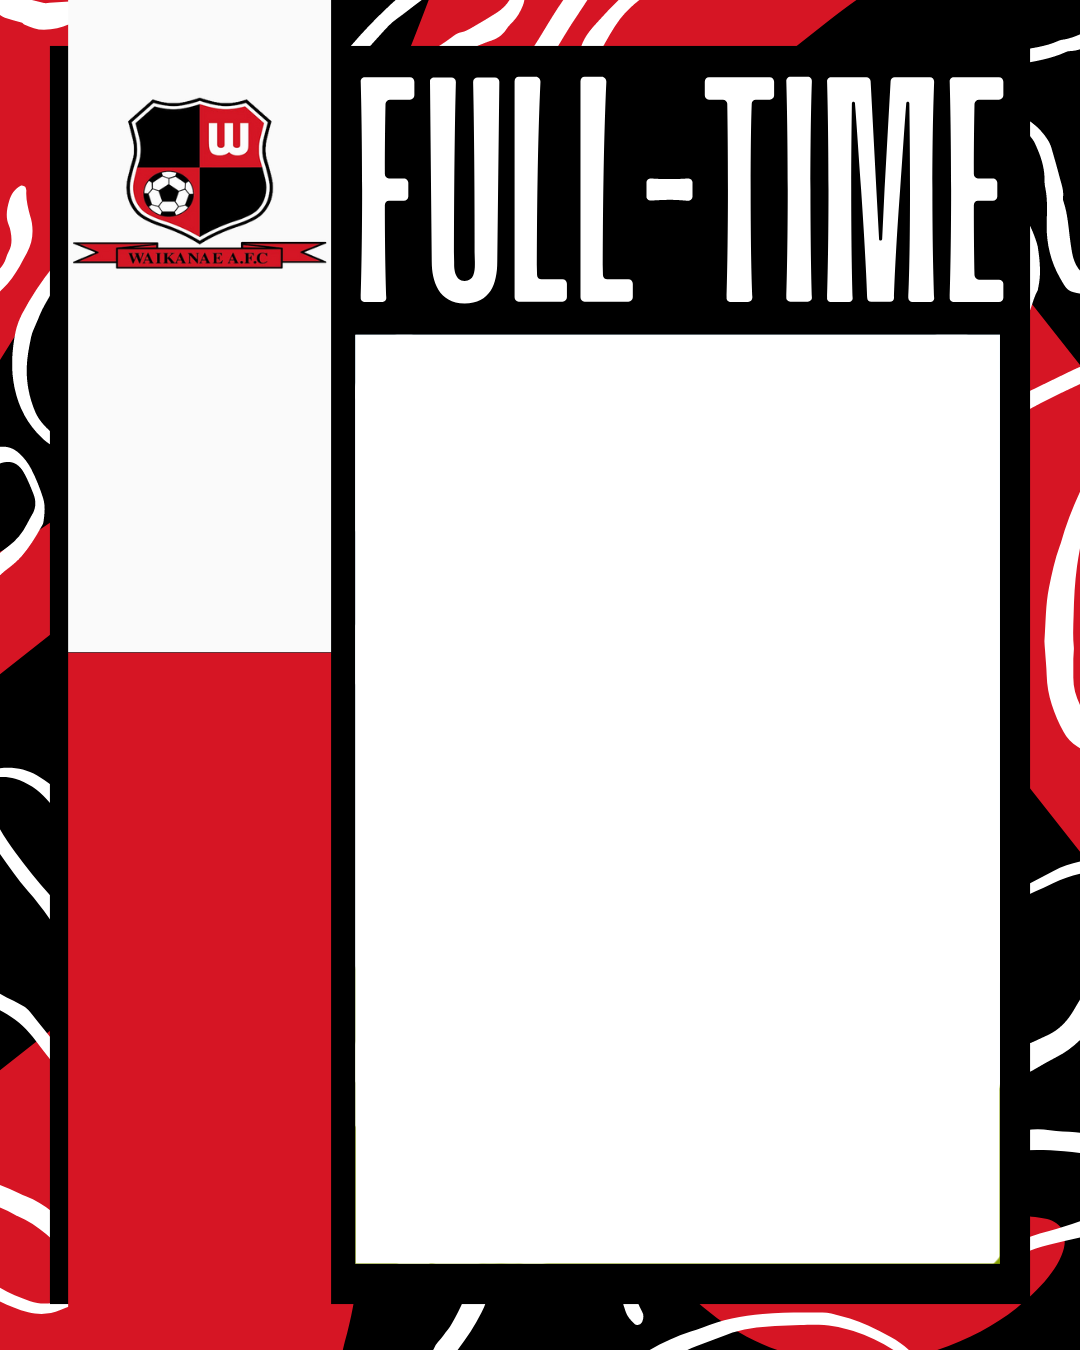
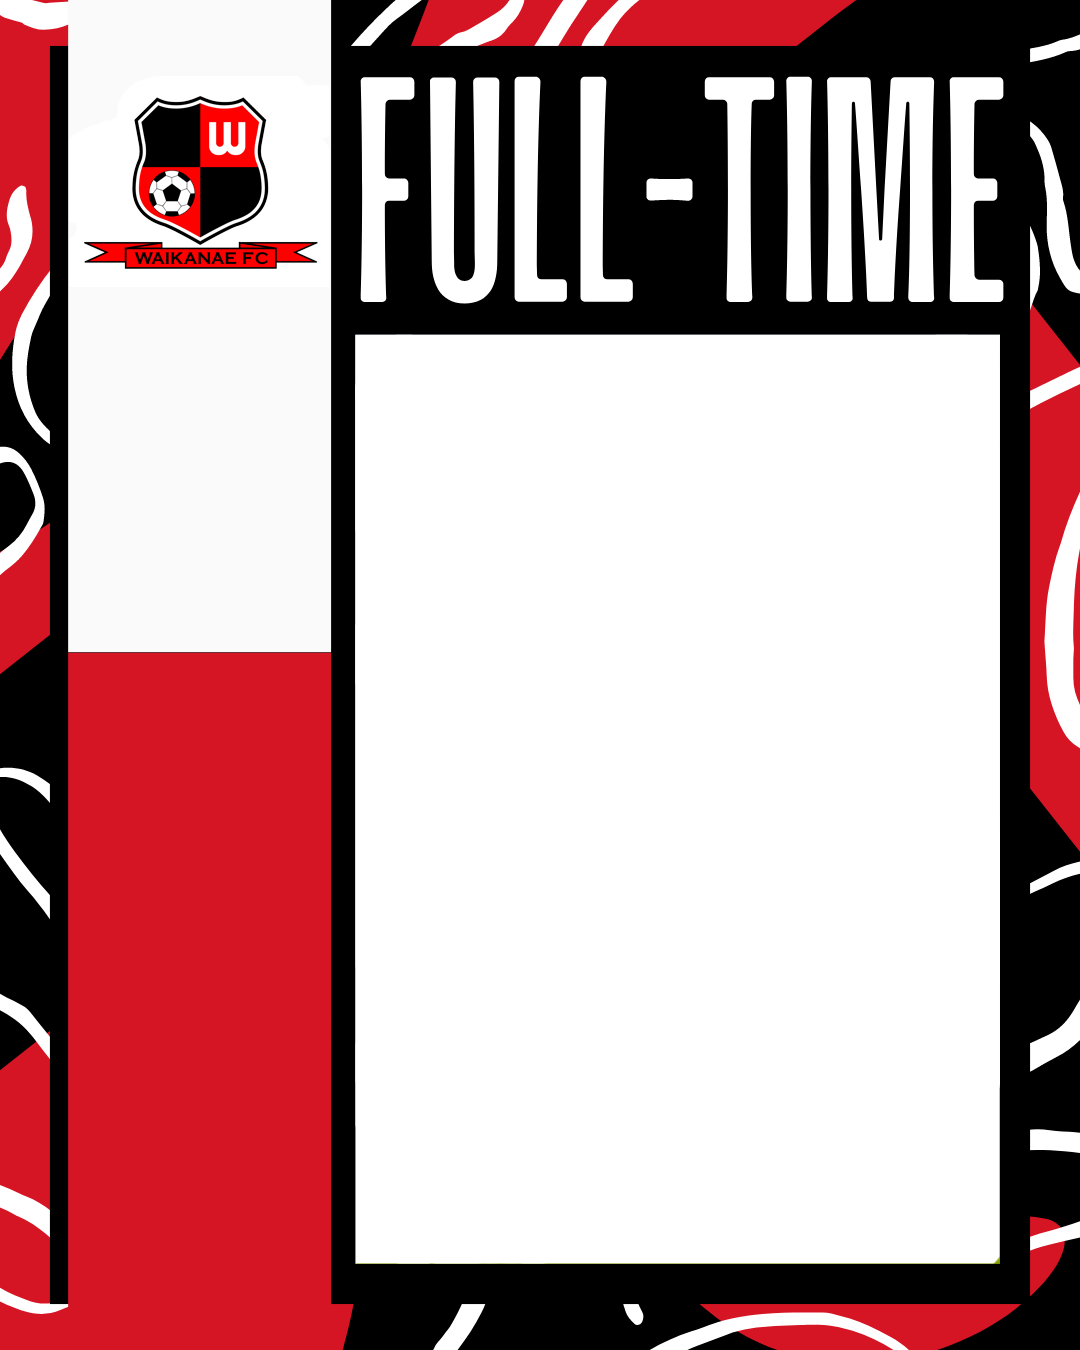
Adjusted Scoreline App

Changed region(s): [[0.0611, 0.0622, 0.3056, 0.2178]]

diff --git a/resources/scorebuilder.html b/resources/scorebuilder.html
@@ -25,13 +25,21 @@
 				<label for="opponenttext">Opponent:</label><br>
 				<input type="text" id="opponenttext" name="opponenttext"><br>
 				<label for="crest">Choose a crest for the Opponent:</label>
-				<select name="crest" id="crest">
-				  <option value="waikanae">Waikanae</option>
-				  <option value="kcu">KCU</option>
-				  <option value="paekakariki">Paekakariki</option>
-				  <option value="otaki">Otaki</option>
-				  <option value="manakau">Manakau</option>
-				</select>
+				<select name="crest" id="crest"></select>
+				<script>
+				var selectElement = document.getElementById('crest');
+	
+				fetch('./Clubs/clubs.json')
+				  .then(response => response.json())
+				  .then(files => {
+					files.forEach(file => {
+					  selectElement.add(new Option(file));
+					});
+				  })
+				  .catch(error => {
+					console.error('Error loading files:', error);
+				  });
+				 </script>
 	</div>
 	<div class="score">
 		<h1> Step 3. Now, select the score of the match: </h1><br>

diff --git a/resources/scoreextras/script.js b/resources/scoreextras/script.js
@@ -82,7 +82,7 @@ function generateImage(home,away,crest,hscore,ascore,fullorhalf){
 		base_image.src = halfTemplateImg;
 	}
 	
-	crest_image.src = "./clubicons/" + crest + ".png";
+	crest_image.src = "./Clubs/" + crest + "/large.png";
 	let images = [base_image, crest_image]
 	
 	function imageIsLoaded(image) {
